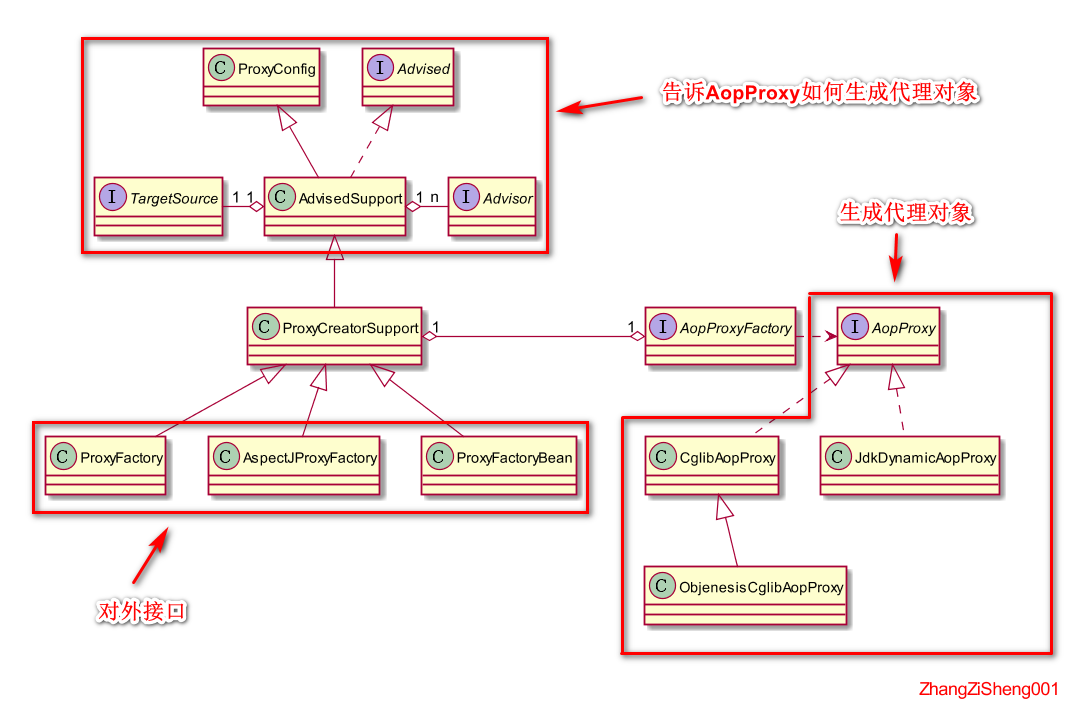
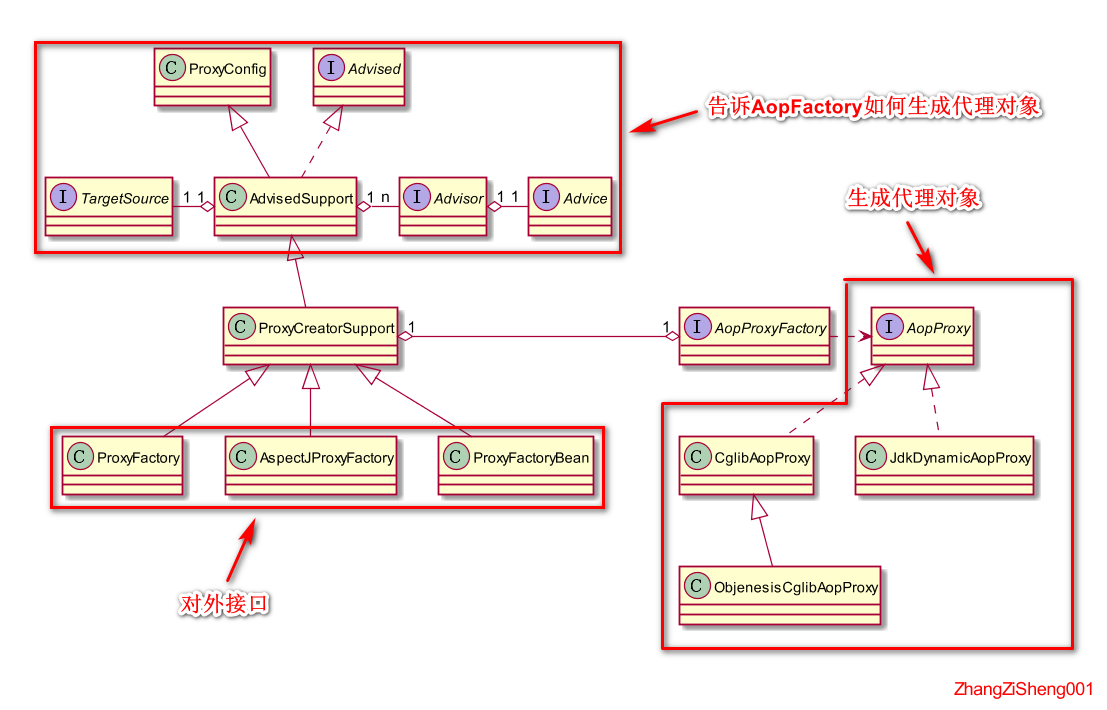
Spring源码系列(三)--spring-aop的基础组件、架构和使用

diff --git a/spring-aop/Spring源码系列(三)--spring-aop的基础组件、架构和使用.md b/spring-aop/Spring源码系列(三)--spring-aop的基础组件、架构和使用.md
@@ -1,0 +1,289 @@
+# 简介
+
+前面已经讲完 spring-bean( 详见[Spring](https://www.cnblogs.com/ZhangZiSheng001/category/1776792.html) )，这篇博客开始攻克 Spring 的另一个重要模块--spring-aop。
+
+spring-aop 可以实现动态代理（底层是使用 JDK 动态代理或 cglib 来生成代理类），在项目中，一般被用来实现日志、权限、事务等的统一管理。
+
+我将通过两篇博客来详细介绍 spring-aop 的使用、源码等。这是第一篇博客，主要介绍 spring-aop 的组件、架构、使用等。
+
+# 项目环境
+
+maven：3.6.3
+
+操作系统：win10
+
+JDK：8u231
+
+Spring：5.2.6.RELEASE
+
+
+# 几个重要的组件
+
+说到 spring-aop，我们经常会使用到**`Pointcut`、`Joinpoint`、`Advice`、`Aspect`**等等基础组件，它们都是抽象出来的“标准”，有的来自 aopalliance，有的来自 AspectJ，也有的是 spring-aop 原创。
+
+**想要学好 spring-aop，必须理解好这几个基础组件**。但是，理解它们非常难，一个原因是网上能讲清楚的不多，第二个原因是这些组件本身抽象得不够直观（spring 官网承认了这一点）。
+
+## AOP联盟的组件--Joinpoint、Advice
+
+在  spring-aop 的包中内嵌了 aopalliance 的包（aopalliance 就是一个制定 AOP 标准的联盟、组织），这个包是 AOP 联盟提供的一套“标准”，提供了 AOP 一些通用的组件，包的结构大致如下。
+
+```powershell
+└─org
+    └─aopalliance
+        ├─aop
+        │      Advice.class
+        │      AspectException.class
+        │
+        └─intercept
+                ConstructorInterceptor.class
+                ConstructorInvocation.class
+                Interceptor.class
+                Invocation.class
+                Joinpoint.class
+                MethodInterceptor.class
+                MethodInvocation.class
+```
+
+完整的 aopalliance 包，除了 aop 和 intercept，还包括了 instrument 和 reflect，后面这两个部分 spring-aop 没有引入，这里就不说了。
+
+使用 UML 表示以上类的关系，如下。可以看到，这主要包含两个部分：`Joinpoint`和`Advice`。
+
+<img src="https://img2020.cnblogs.com/blog/1731892/202009/1731892-20200915090605295-325173928.png" alt="AopAopallianceUML"  />
+
+1. **Joinpoint**：**一个事件，包括调用某个方法（构造方法或成员方法）、操作某个成员属性等**。
+
+例如，我调用了`user.study()` 方法，这个事件本身就属于一个`Joinpoint`。`Joinpoint`是一个“动态”的概念，通过它可以获取这个事件的静态信息，例如当前事件对应的`AccessibleObject`（`AccessibleObject`是`Field`、`Method`、`Constructor`等的超类）。spring-aop 主要使用到`Joinpoint`的子接口`MethodInvocation`。
+
+2. **Advice**：**对`Joinpoint`执行的某些操作**。
+
+例如，JDK 动态代理使用的`InvocationHandler`、cglib 使用的`MethodInterceptor`，在抽象概念上可以算是`Advice`（即使它们没有继承`Advice`）。spring-aop 主要使用到`Advice`的子接口`MethodInterceptor`。
+
+3. **Joinpoint 和 Advice 的关系**：
+
+`Joinpoint`是`Advice`操作的对象，一个`Advice`可以操作多个`Joinpoint`，一个`Joinpoint`也可以被多个`Advice`操作。**在 spring-aop 里，`Joinpoint`对象会持有一条`Advice`链，调用`Joinpoint.proceed()`将逐一执行其中的`Advice`（需要判断是否执行），执行完`Advice`链`Advice`链，将最终执行被代理对象的方法**。
+
+## AspectJ 的组件--Pointcut、Aspect
+
+AspectJ 是一个非常非常强大的 AOP 工具，可以实现编译期织入、编译后织入和类加载时织入，并且提供了一套 AspectJ 语法（spring-aop 支持这套语法，但要额外引入 aspectjweaver 包）。spring-aop 使用到了 AspectJ 的两个组件，`Pointcut`和`Aspect`。
+
+其中，**`Pointcut`可以看成一个过滤器，它可以用来判断当前`Advice`是否拦截指定`Joinpoint`**，如下图所示。注意，不同的`Advice`也可以共用一个`Pointcut`。
+
+<img src="https://img2020.cnblogs.com/blog/1731892/202009/1731892-20200915090626002-1373379548.png" alt="Pointcut_01" style="zoom:80%;" />
+
+`Aspect`这个没什么特别，就是一组`Pointcut`+`Advice`的集合。下面这段代码中，有两个`Advice`，分别为`printRequest`和`printResponse`，它们共享同一个`Pointcut`，而这个类里的`Pointcut`+`Advice`可以算是一个`Aspect`。
+
+```java
+@Aspect
+public class UserServiceAspect {
+    
+    private static final Logger LOGGER = LoggerFactory.getLogger(UserServiceAspect.class);
+    
+    @Pointcut("execution(* cn.zzs.spring.UserService+.*(..)))")
+    public void genericPointCut() {
+
+    }
+    
+    @Before(value = "genericPointCut()")
+    public void printRequest(JoinPoint joinPoint) throws InterruptedException {
+        //······
+    }  
+    
+    @After(value = "genericPointCut()")
+    public void printResponse(JoinPoint joinPoint) throws InterruptedException {
+      //······;
+    }  
+}
+```
+
+## spring-aop 的组件--Advisor
+
+`Advisor`是 spring-aop 原创的一个组件，**一个`Advice`加上它对应的过滤器，就组成了一个`Advisor`**。在上面例子中，`printRequest`的`Advice`加上它的`Pointcut`，就是一个`Advisor`。而`Aspect`由多个`Advisor`组成。
+
+注意，这里的过滤器，可以是`Pointcut`，也可以是 spring-aop 自定义的`ClassFilter`。
+
+# spring-aop 和 AspectJ 的关系
+
+从 AOP 的功能完善程度来讲，AspectJ 支持编译期织入、编译后织入和类加载时织入，并且提供了一套 AspectJ 语法，非常强大。在 AspectJ 面前，spring-aop 就是个“小弟弟”。
+
+spring-aop 之所以和 AspectJ 产生关联，主要是因为借鉴了 AspectJ 语法（这套语法一般使用注解实现，用于定义`Aspect`、`Pointcut`、`Advice`等），包括使用到 AspectJ 的注解以及解析语法的类。如果我们希望在 spring-aop 中使用 AspectJ 注解语法，需要额外引入 aspectjweaver 包。
+
+# 如何使用 spring-aop
+
+接下来展示的代码可能有的人看了会觉得奇怪，“怎么和我平时用 spring-aop 不一样呢？”。这里先说明一点，**因为本文讲的是 spring-aop，所以，我用的都是 spring-aop 的 API**，而实际项目中，由于 spring 封装了一层又一层，导致我们感知不到 spring-aop 的存在。
+
+通常情况下，Spring 是通过向`BeanFactory`注册`BeanPostProcessor`（例如，`AbstractAdvisingBeanPostProcessor`）的方式对 bean 进行动态代理，原理并不复杂，相关内容可以通过 spring-bean 了解（ [Spring源码系列(二)--bean组件的源码分析](https://www.cnblogs.com/ZhangZiSheng001/p/13196228.html) ）。
+
+接下来让我们抛开这些“高级封装”，看看 spring-aop 的真面目。
+
+## spring-aop 的代理工厂
+
+下面通过一个 UML 图来了解下 spring-aop 的结构，如下。
+
+![ProxyFactoryUML](https://img2020.cnblogs.com/blog/1731892/202009/1731892-20200915090711597-1505551851.png)
+
+spring-aop 为我们提供了三种代理工厂，其中`ProxyFactory`比较普通，`AspectJProxyFactory`支持 AspectJ 语法的代理工厂，`ProxyFactoryBean`可以给 Spring IoC 管理的 bean 进行代理。
+
+下面介绍如何使用这些代理工厂来获得代理类。
+
+## 使用ProxyFactory生成代理类
+
+`ProxyFactory`的测试代码如下，如果指定了接口，一般会使用 JDK 动态代理，否则使用 cglib。
+
+```java
+    @Test
+    public void test01() {
+    
+        ProxyFactory proxyFactory = new ProxyFactory();
+        
+        // 设置被代理的对象
+        proxyFactory.setTarget(new UserService());
+        // 设置代理接口--如果设置了接口，一般会使用JDK动态代理，否则用cglib
+        // proxyFactory.setInterfaces(IUserService.class);
+        
+        // 添加第一个Advice
+        proxyFactory.addAdvice(new MethodInterceptor() {
+            
+            public Object invoke(MethodInvocation invocation) throws Throwable {
+                TimeUnit.SECONDS.sleep(1);
+                
+                LOGGER.info("打印{}方法的日志", invocation.getMethod().getName());
+                // 执行下一个Advice
+                return invocation.proceed();
+            }
+        });
+        
+        // 添加第二个Advice······
+        
+        IUserService userController = (IUserService)proxyFactory.getProxy();
+        userController.save();
+        userController.delete();
+        userController.update();
+        userController.find();
+    }
+```
+
+运行以上方法，可以看到控制台输出：
+
+```powershell
+2020-09-12 16:32:02.704 [main] INFO  cn.zzs.spring.ProxyFactoryTest - 打印save方法的日志
+增加用户
+2020-09-12 16:32:03.725 [main] INFO  cn.zzs.spring.ProxyFactoryTest - 打印delete方法的日志
+删除用户
+2020-09-12 16:32:04.726 [main] INFO  cn.zzs.spring.ProxyFactoryTest - 打印update方法的日志
+修改用户
+2020-09-12 16:32:05.726 [main] INFO  cn.zzs.spring.ProxyFactoryTest - 打印find方法的日志
+查找用户
+```
+
+## 使用ProxyFactoryBean生成代理类
+
+`ProxyFactoryBean`和`ProxyFactory`差不多，区别在于`ProxyFactoryBean`的 target 是一个 bean。因为需要和 bean 打交道，所以这里需要创建 beanFactory 以及注册 bean。另外，我们可以设置每次生成的代理类都不同。
+
+```java
+    @Test
+    public void test01() {
+        // 注册bean
+        DefaultListableBeanFactory beanFactory = new DefaultListableBeanFactory();
+        beanFactory.registerBeanDefinition("userService", 
+                BeanDefinitionBuilder.rootBeanDefinition(UserService.class).getBeanDefinition());
+        
+        ProxyFactoryBean proxyFactory = new ProxyFactoryBean();
+        // 设置beanFactory
+        proxyFactory.setBeanFactory(beanFactory);
+        // 设置被代理的bean
+        proxyFactory.setTargetName("userService");
+        // 添加Advice
+        proxyFactory.addAdvice(new MethodInterceptor() {
+            
+            public Object invoke(MethodInvocation invocation) throws Throwable {
+                TimeUnit.SECONDS.sleep(1);
+                
+                LOGGER.info("打印{}方法的日志", invocation.getMethod().getName());
+                return invocation.proceed();
+            }
+        });
+        // 设置scope
+        //proxyFactory.setSingleton(true);
+        proxyFactory.setSingleton(false);
+        
+        IUserService userController = (IUserService)proxyFactory.getObject();
+        
+        userController.save();
+        userController.delete();
+        userController.update();
+        userController.find();
+        
+        IUserService userController2 = (IUserService)proxyFactory.getObject();
+        System.err.println(userController == userController2);
+    }
+```
+
+## 使用AspectJProxyFactory生成代理类
+
+使用`AspectJProxyFactory`要额外引入 aspectjweaver 包，如下：
+
+```xml
+        <dependency>
+            <groupId>org.aspectj</groupId>
+            <artifactId>aspectjweaver</artifactId>
+            <version>1.9.6</version>
+            <!-- <scope>runtime</scope> -->
+        </dependency>
+```
+
+接下来配置一个`Aspect`，如下。这里定义了一个`Advice`，即 printRequest 方法；定义了一个`Pointcut`，即拦截`UserService`及其子类。
+
+```java
+@Aspect
+public class UserServiceAspect {
+    
+    private static final Logger LOGGER = LoggerFactory.getLogger(UserServiceAspect.class);
+    
+    @Pointcut("execution(* cn.zzs.spring.UserService+.*(..)))")
+    public void genericPointCut() {
+
+    }
+    
+    @Before(value = "genericPointCut()")
+    public void printRequest(JoinPoint joinPoint) throws InterruptedException {
+        TimeUnit.SECONDS.sleep(1);
+        LOGGER.info("call {}_{} with args:{}", 
+                joinPoint.getSignature().getDeclaringType().getSimpleName(), 
+                joinPoint.getSignature().getName(), 
+                joinPoint.getArgs());
+    }  
+}
+```
+
+编写生成代理类的方法，如下。`AspectJProxyFactory`会利用 AspectJ 的类来解析 Aspect，并转换为 spring-aop 需要的`Advisor`。
+
+```java
+    @Test
+    public void test01() {
+        
+        AspectJProxyFactory proxyFactory = new AspectJProxyFactory();
+        // 设置被代理对象
+        proxyFactory.setTarget(new UserService());
+        
+        // 添加Aspect
+        proxyFactory.addAspect(UserServiceAspect.class);
+        
+        // 提前过滤不符合Poincut的类，这样在执行 Advice chain 的时候就不要再过滤
+        proxyFactory.setPreFiltered(true);
+        
+        UserService userController = (UserService)proxyFactory.getProxy();
+        
+        userController.save();
+        userController.delete();
+        userController.update();
+        userController.find();
+    }
+```
+
+关于 spring-aop 的组件、架构、使用等内容，就介绍到这里，第二篇博客再分析具体源码。
+
+感谢阅读。以上内容如有错误，欢迎指正。 
+
+> 相关源码请移步：[ spring-aop]( https://github.com/ZhangZiSheng001/spring-projects/tree/master/spring-aop )
+
+> 本文为原创文章，转载请附上原文出处链接：[https://www.cnblogs.com/ZhangZiSheng001/p/13671149.html](https://www.cnblogs.com/ZhangZiSheng001/p/13671149.html)
